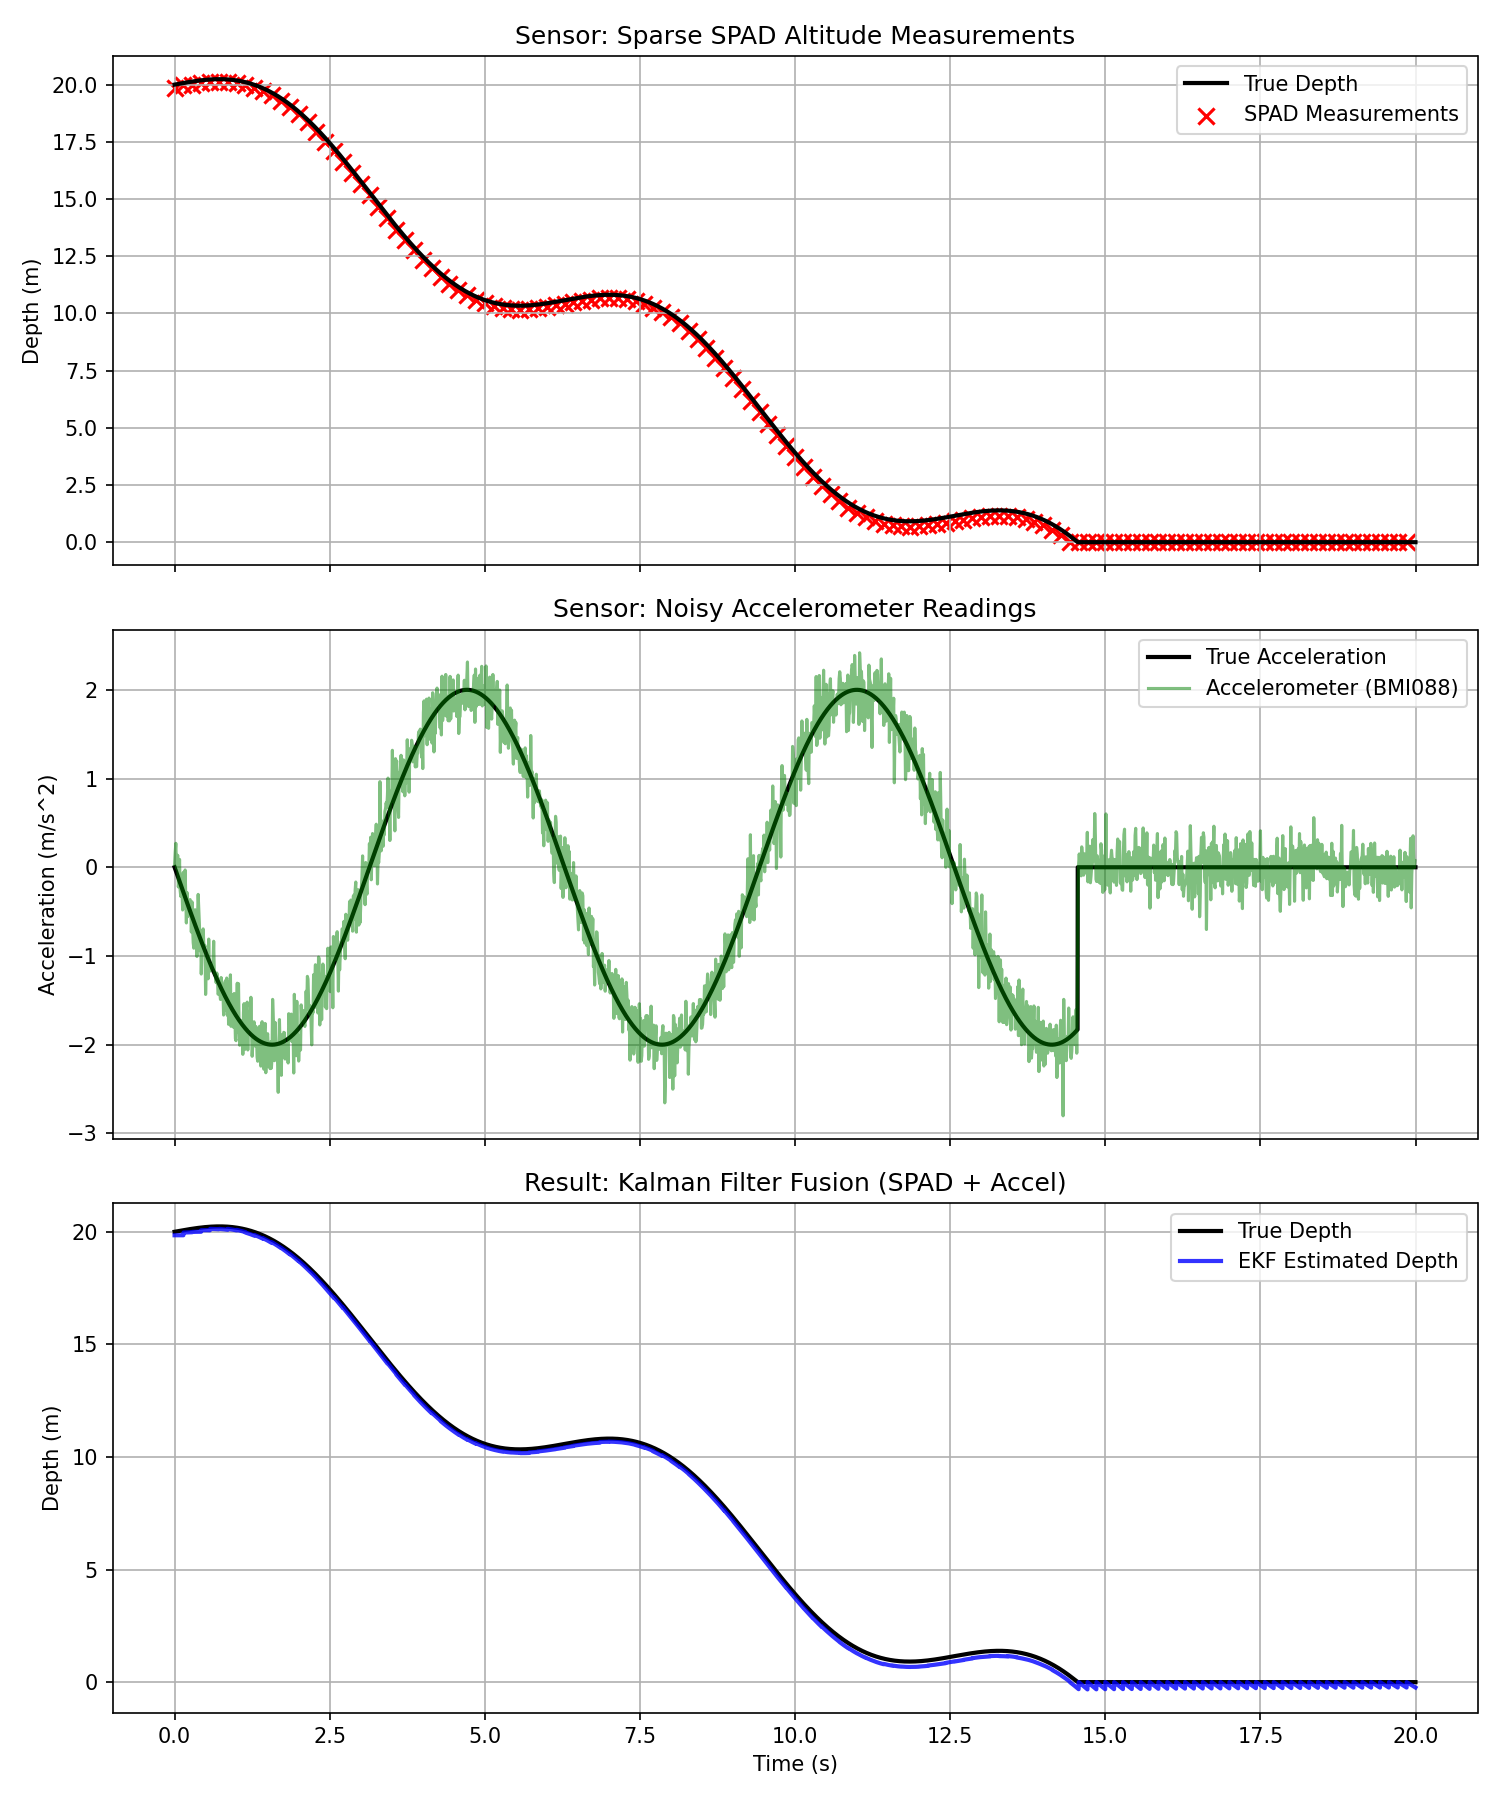
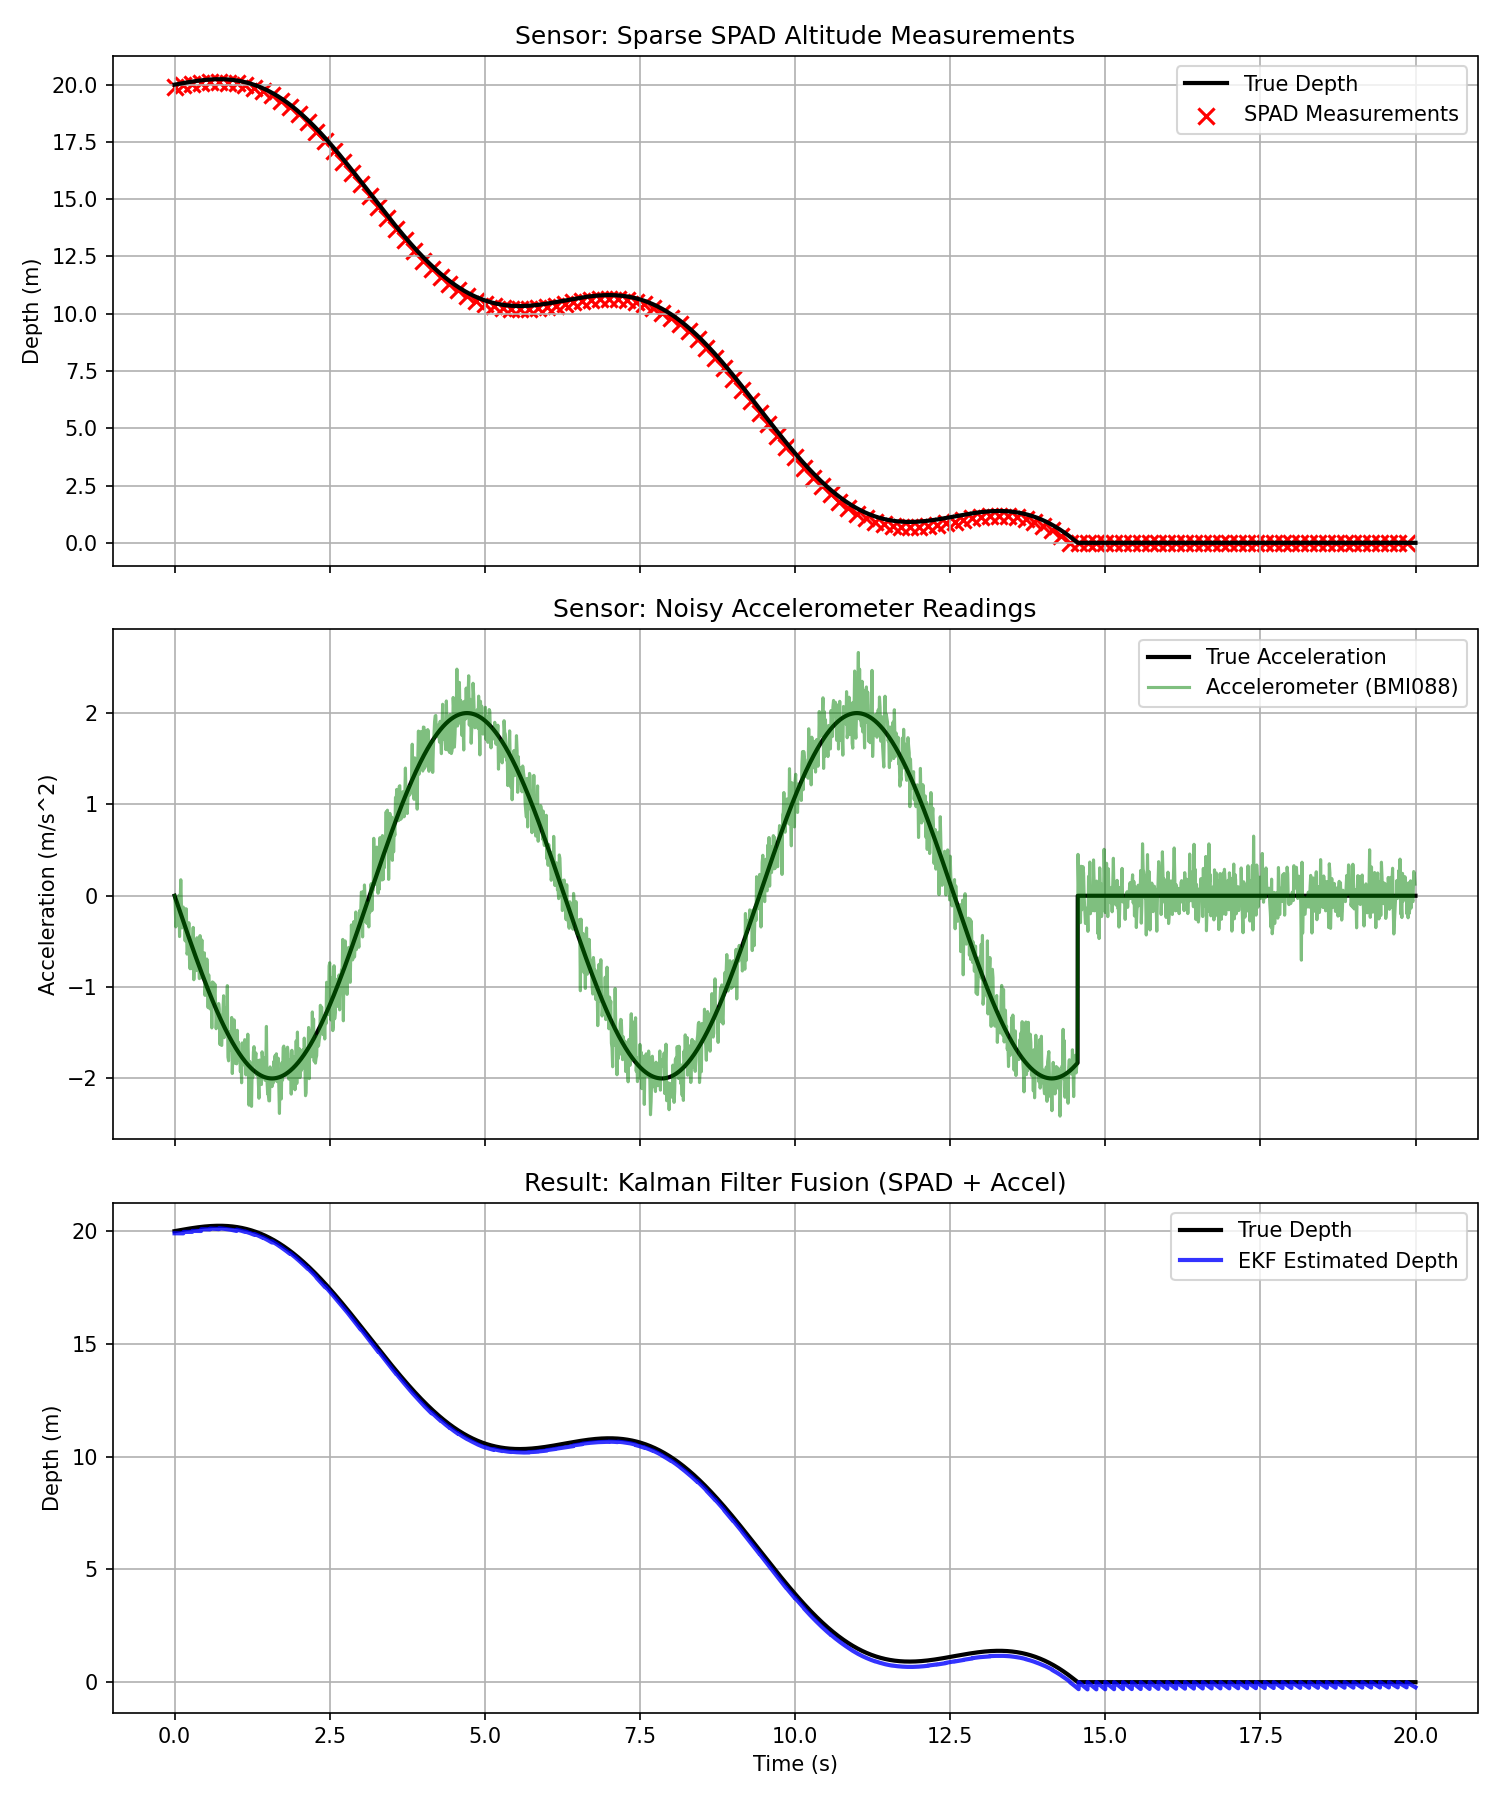
Mattia: Fatto delle prove, modificato l'ultima riga per far comparire il grafico su windows

diff --git a/main.py b/main.py
@@ -1,6 +1,7 @@
 import numpy as np
 import math
 import matplotlib.pyplot as plt
+import os
 
 # Safely import the custom SPAD model, or mock it if missing
 try:
@@ -258,7 +259,7 @@ def main():
     plt.tight_layout()
     plt.savefig('low.png', dpi=150)
     print("Plot saved to output.png")
-    plt.show()
+    os.startfile('low.png')  # Windows only
 
 if __name__ == "__main__":
     main()
